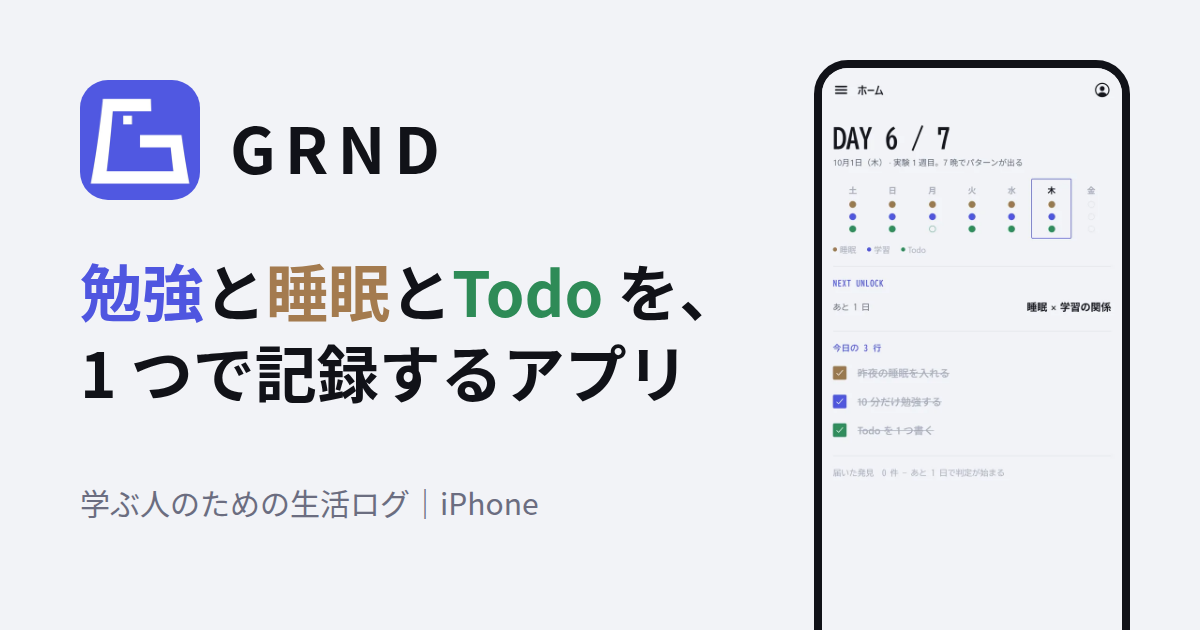
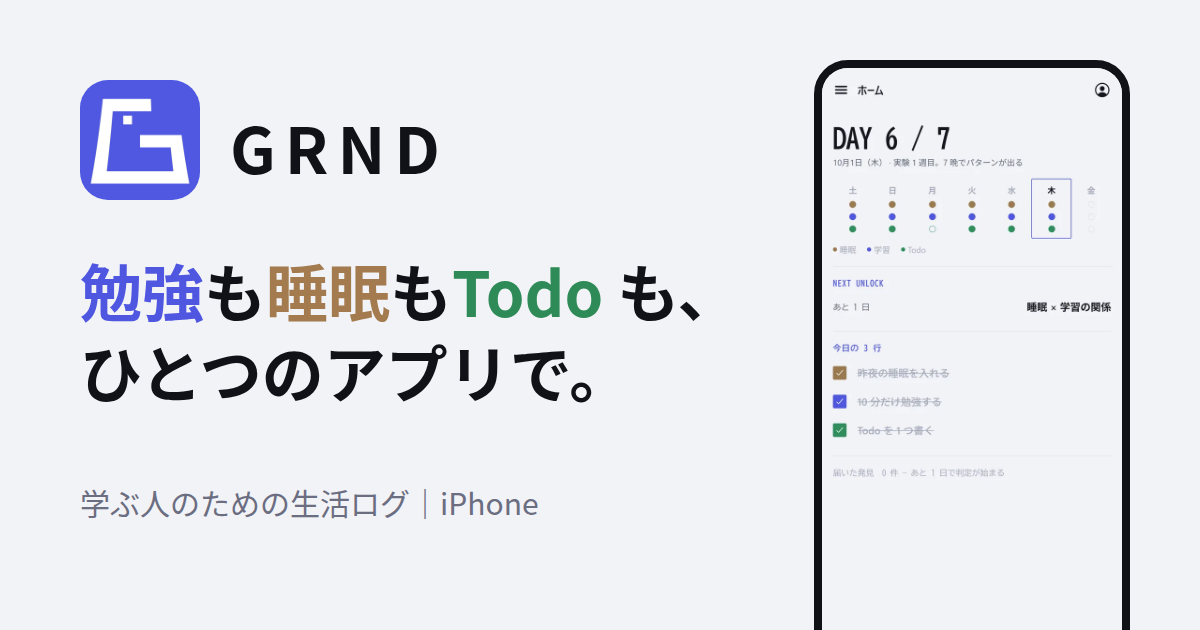
見出しを自然な言い方に書き直す(〜で。〜に。〜だけ。)
Claude-Session: https://claude.ai/code/session_01D93fMtKgZZTCuSptwdQUJN

diff --git a/index.html b/index.html
@@ -15,7 +15,7 @@
 <meta name="apple-itunes-app" content="app-id=6755229342">
 <meta property="og:type" content="website">
 <meta property="og:site_name" content="GRND">
-<meta property="og:title" content="GRND｜勉強と睡眠と Todo を、1 つで記録するアプリ">
+<meta property="og:title" content="GRND｜勉強も睡眠も Todo も、ひとつのアプリで。">
 <meta property="og:description" content="学ぶ人のための生活ログ。毎朝、昨日のスコアを 0〜100 で。iPhone 用、記録は無料。">
 <meta property="og:url" content="https://createdigging.github.io/grnd-docs/">
 <meta property="og:image" content="https://createdigging.github.io/grnd-docs/img/og-ja.png">
@@ -51,7 +51,7 @@
   <section class="hero">
     <div>
       <p class="eyebrow">iPhone アプリ</p>
-      <h1><span class="nw"><span class="c-study">勉強</span>と<span class="c-sleep">睡眠</span>と<span class="c-todo">Todo</span> を、</span><br><span class="nw"><span class="mono">1</span> つで記録するアプリ</span></h1>
+      <h1><span class="nw"><span class="c-study">勉強</span>も<span class="c-sleep">睡眠</span>も<span class="c-todo">Todo</span> も、</span><br><span class="nw">ひとつのアプリで。</span></h1>
       <p class="lead">学ぶ人のための生活ログ「<b>GRND</b>」。<br>睡眠は「寝た」と「起きた」を押すだけ。毎朝、昨日のスコアが 0〜100 で出ます。</p>
       <a class="cta" href="https://apps.apple.com/jp/app/id6755229342">App Store で見る</a>
       <p class="cta-note">iPhone 用。記録は無料です。</p>
@@ -64,7 +64,7 @@
   <section class="feat">
     <div>
       <p class="num mono">01</p>
-      <h2>毎日のやることは<br>「今日の <span class="mono">3</span> 行」</h2>
+      <h2>毎日やるのは、<br>「今日の <span class="mono">3</span> 行」だけ。</h2>
       <p>ホームには、今日やる小さなこと 3 つと、1 週間分の記録が並びます。Todo には期日と通知をつけられます。</p>
       <ul class="lines">
         <li><i style="--c:var(--brown)"></i>昨夜の睡眠を入れる</li>
@@ -78,7 +78,7 @@
   <section class="feat">
     <div>
       <p class="num mono">02</p>
-      <h2>毎朝出る、<br>昨日のスコア <span class="mono">0〜100</span></h2>
+      <h2>毎朝、昨日のスコアを<br><span class="mono">0〜100</span> で。</h2>
       <p>学習・Todo・睡眠の点に、寝る時刻がそろった分の加点(最大 15 点)がつきます。</p>
       <p>前の日にいちばん点を落とした項目から、今日やることが 1 行で出ます。</p>
     </div>
@@ -94,7 +94,7 @@
   <section class="feat">
     <div>
       <p class="num mono">03</p>
-      <h2>睡眠と同じ表に残る、<br>タイマーで計った勉強時間</h2>
+      <h2>勉強時間も、<br>睡眠と同じ表に。</h2>
       <p>ストップウォッチ・タイマー・ポモドーロ・手入力。教科ごとに残ります。</p>
       <p>昨日何時に寝たかと、今日どれだけ勉強したかを同じ画面で見られます。</p>
     </div>
@@ -104,7 +104,7 @@
   <section class="feat">
     <div>
       <p class="num mono">04</p>
-      <h2><span class="mono">3</span> 晩の記録から出る、<br>今夜寝る時刻の目安</h2>
+      <h2><span class="mono">3</span> 晩分の記録で、<br>今夜寝る時刻の目安も。</h2>
       <p>目安は、直近の就寝時刻の平均から出します。</p>
       <p>睡眠の記録は、夜に「寝た」、朝に「起きた」を押すだけです。</p>
     </div>
@@ -144,7 +144,7 @@
   <section class="faq">
     <h2>読みもの</h2>
     <ul class="list-articles">
-      <li><a href="articles/chuya-gyakuten.html">昼夜逆転の戻し方｜起きる時刻と朝の光で、1 日 1 時間ずつの前倒し</a><p>一晩では戻らない理由と、寝起きを少しずつ早める手順。</p></li>
+      <li><a href="articles/chuya-gyakuten.html">昼夜逆転の戻し方｜起きる時刻と朝の光で、1 日 1 時間ずつ</a><p>一晩では戻らない理由と、寝起きを少しずつ早める手順。</p></li>
     </ul>
   </section>
 

diff --git a/articles/chuya-gyakuten.html b/articles/chuya-gyakuten.html
@@ -3,7 +3,7 @@
 <head>
 <meta charset="utf-8">
 <meta name="viewport" content="width=device-width, initial-scale=1">
-<title>昼夜逆転の戻し方｜起きる時刻と朝の光で、1 日 1 時間ずつの前倒し</title>
+<title>昼夜逆転の戻し方｜起きる時刻と朝の光で、1 日 1 時間ずつ</title>
 <meta name="description" content="昼夜逆転は一気には戻りません。体内時計の研究をもとに、起きる時刻を決めて朝の光を浴び、1 日 1 時間ずつ寝起きを早める戻し方と、戻したあとに崩さないコツをまとめました。">
 <link rel="canonical" href="https://createdigging.github.io/grnd-docs/articles/chuya-gyakuten.html">
 <link rel="icon" href="../favicon.png">
@@ -11,7 +11,7 @@
 <meta name="theme-color" content="#4f56e0">
 <meta property="og:type" content="article">
 <meta property="og:site_name" content="GRND">
-<meta property="og:title" content="昼夜逆転の戻し方｜起きる時刻と朝の光で、1 日 1 時間ずつの前倒し">
+<meta property="og:title" content="昼夜逆転の戻し方｜起きる時刻と朝の光で、1 日 1 時間ずつ">
 <meta property="og:description" content="体内時計の研究をもとにした、昼夜逆転の戻し方と、戻したあとに崩さないコツ。">
 <meta property="og:url" content="https://createdigging.github.io/grnd-docs/articles/chuya-gyakuten.html">
 <meta property="og:image" content="https://createdigging.github.io/grnd-docs/img/og-ja.png">
@@ -22,7 +22,7 @@
 {
   "@context": "https://schema.org",
   "@type": "Article",
-  "headline": "昼夜逆転の戻し方｜起きる時刻と朝の光で、1 日 1 時間ずつの前倒し",
+  "headline": "昼夜逆転の戻し方｜起きる時刻と朝の光で、1 日 1 時間ずつ",
   "datePublished": "2026-11-17",
   "dateModified": "2026-11-17",
   "inLanguage": "ja",
@@ -43,7 +43,7 @@
 
   <article class="article">
     <p class="crumb"><a href="../">GRND</a> › <a href="./">読みもの</a></p>
-    <h1>昼夜逆転の戻し方<br><span class="nw">起きる時刻と朝の光で、</span><span class="nw"><span class="mono">1</span> 日 <span class="mono">1</span> 時間ずつの前倒し</span></h1>
+    <h1>昼夜逆転の戻し方<br><span class="nw">起きる時刻と朝の光で、</span><span class="nw"><span class="mono">1</span> 日 <span class="mono">1</span> 時間ずつ</span></h1>
     <p class="date">2026 年 11 月 17 日</p>
 
     <p>試験前の徹夜や長い休みのあとで、寝るのが朝方になってしまった。早く寝ようとしても眠れず、結局また朝になる。昼夜逆転は、気合いで一晩のうちに戻すのが難しい状態です。この記事では体内時計の研究でわかっていることをもとに、戻し方の手順をまとめます。</p>
@@ -94,7 +94,7 @@
       </div>
     </div>
 
-    <h2>何週間たっても戻らない時の相談先</h2>
+    <h2>何週間たっても戻らない時は</h2>
     <p>手順どおりに続けても戻らない、朝起きられずに授業や仕事に出られない日が続く、という時は、睡眠の病気の可能性もあります。「概日リズム睡眠・覚醒障害」と呼ばれ、睡眠を専門に診る医療機関で相談できます。この記事は診断の代わりにはなりません。</p>
 
     <h2>参考にした研究・資料</h2>

diff --git a/articles/index.html b/articles/index.html
@@ -23,7 +23,7 @@
     <p class="date">睡眠と勉強の記事。研究や公的な資料をもとにまとめています。</p>
     <ul class="list-articles">
       <li>
-        <a href="chuya-gyakuten.html">昼夜逆転の戻し方｜起きる時刻と朝の光で、1 日 1 時間ずつの前倒し</a>
+        <a href="chuya-gyakuten.html">昼夜逆転の戻し方｜起きる時刻と朝の光で、1 日 1 時間ずつ</a>
         <p>一晩では戻らない理由と、寝起きを少しずつ早める手順。</p>
       </li>
     </ul>
